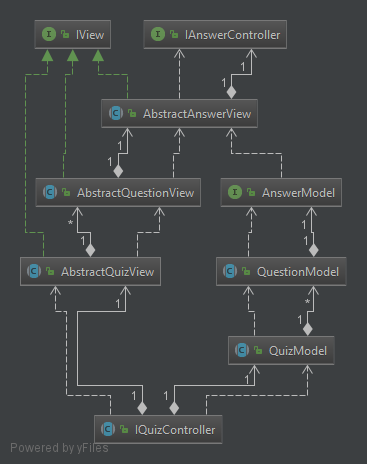
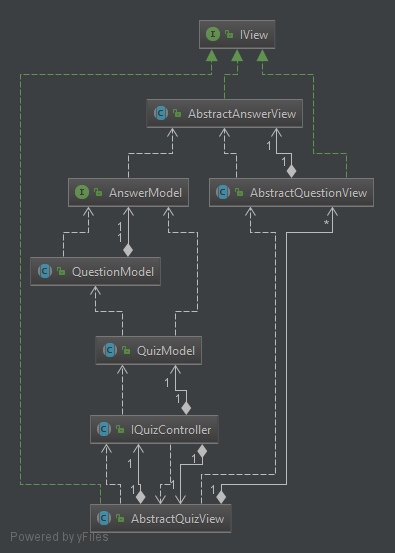
remove SimpleQuestion

Changed region(s): [[0.03, 0.0302, 0.9591, 0.9957], [0.0899, 0.0302, 0.2997, 0.1509], [0.2098, 0.6638, 0.2398, 0.694]]

diff --git a/src/test/java/fil/coo/model/impl/QuestionTest.java b/src/test/java/fil/coo/model/impl/QuestionTest.java
@@ -2,6 +2,7 @@ package fil.coo.model.impl;
 
 import fil.coo.QuizTest;
 import fil.coo.exception.InvalidAnswerException;
+import fil.coo.gui.Mocks;
 import fil.coo.model.impl.answers.NumericalAnswer;
 import fil.coo.model.impl.answers.TextAnswer;
 import org.apache.log4j.Logger;
@@ -20,13 +21,13 @@ public class QuestionTest extends QuizTest {
 
     private String INPUT_QUESTION_1 = "5+5= ?";
     private String INPUT_ANSWER_1 = "10";
-    private SimpleQuestion questionWithNumericalAnswer;
+    private Mocks.MockQuestion questionWithNumericalAnswer;
     private NumericalAnswer numericalAnswer;
     private int NB_POINTS_NUMERICAL_QUESTION = 2;
 
     private String INPUT_QUESTION_2 = "Quel est la capital de le France ?";
     private String INPUT_ANSWER_2 = "Paris";
-    private SimpleQuestion questionWithTextAnswer;
+    private Mocks.MockQuestion questionWithTextAnswer;
     private TextAnswer textAnswer;
     private int NB_POINTS_TEXT_QUESTION = 5;
 
@@ -34,10 +35,10 @@ public class QuestionTest extends QuizTest {
     @Before
     public void setUp() throws InvalidAnswerException {
         numericalAnswer = new NumericalAnswer(INPUT_ANSWER_1);
-        questionWithNumericalAnswer = new SimpleQuestion(INPUT_QUESTION_1, numericalAnswer, NB_POINTS_NUMERICAL_QUESTION);
+        questionWithNumericalAnswer = new Mocks.MockQuestion(INPUT_QUESTION_1, numericalAnswer, NB_POINTS_NUMERICAL_QUESTION);
 
         textAnswer = new TextAnswer(INPUT_ANSWER_2);
-        questionWithTextAnswer = new SimpleQuestion(INPUT_QUESTION_2, textAnswer, NB_POINTS_TEXT_QUESTION);
+        questionWithTextAnswer = new Mocks.MockQuestion(INPUT_QUESTION_2, textAnswer, NB_POINTS_TEXT_QUESTION);
     }
 
     @Test

diff --git a/src/main/java/fil/coo/model/factory/QuizFactory.java b/src/main/java/fil/coo/model/factory/QuizFactory.java
@@ -1,7 +1,6 @@
 package fil.coo.model.factory;
 
 import fil.coo.model.impl.CLIQuestion;
-import fil.coo.model.impl.SimpleQuestion;
 import fil.coo.model.impl.CLIQuiz;
 
 import java.io.*;
@@ -17,11 +16,11 @@ public class QuizFactory {
      * @return a Question created from the 3 parameters
      * @throws IOException if inputPointText is not a number
      */
-    public SimpleQuestion createQuestion(String rawQuestion, String rawAnswer, String rawNbPoints)
+    public CLIQuestion createQuestion(String rawQuestion, String rawAnswer, String rawNbPoints)
             throws IOException {
         try {
             int nbPoints = Integer.parseInt(rawNbPoints);
-            return new SimpleQuestion(rawQuestion, AnswerFactory.FACTORYANSWER.buildAnswer(rawAnswer), nbPoints);
+            return new CLIQuestion(rawQuestion, AnswerFactory.FACTORYANSWER.buildAnswer(rawAnswer), nbPoints);
         } catch (NumberFormatException e) {
             throw new IOException("rawNbPoints is not a number");
         }
@@ -48,8 +47,7 @@ public class QuizFactory {
                 if (rawAnswerText == null || rawNbPointsText == null) {
                     throw new IOException("Cannot find text for this question's answer or number of points");
                 }
-                SimpleQuestion question = this.createQuestion(rawQuestionText, rawAnswerText, rawNbPointsText);
-                questionnaire.addQuestion(new CLIQuestion(question));
+                questionnaire.addQuestion(this.createQuestion(rawQuestionText, rawAnswerText, rawNbPointsText));
             }
 
         } catch (FileNotFoundException e) {

diff --git a/src/test/java/fil/coo/model/QuizModelTest.java b/src/test/java/fil/coo/model/QuizModelTest.java
@@ -5,7 +5,6 @@ import fil.coo.gui.Mocks;
 import fil.coo.gui.factory.AnswerPanelFactory;
 import fil.coo.model.impl.CLIQuestion;
 import fil.coo.model.impl.CLIQuiz;
-import fil.coo.model.impl.SimpleQuestion;
 import org.junit.Assert;
 import org.junit.Before;
 import org.junit.Test;
@@ -124,7 +123,7 @@ public abstract class QuizModelTest {
     @Test
     public void testVerifyCorrectAnswerWhenOK() {
         Mocks.MockAnswer mockAnswer = new Mocks.MockAnswer(true);
-        SimpleQuestion question = new SimpleQuestion("", mockAnswer, 0);
+        Mocks.MockQuestion question = new Mocks.MockQuestion("", mockAnswer, 0);
         boolean result = question.verifyCorrectAnswer("dummy_input");
         assertThat(result, is(true));
     }
@@ -132,7 +131,7 @@ public abstract class QuizModelTest {
     @Test
     public void testVerifyCorrectAnswerWhenNotOK() {
         Mocks.MockAnswer mockAnswer = new Mocks.MockAnswer(false);
-        SimpleQuestion question = new SimpleQuestion("", mockAnswer, 0);
+        Mocks.MockQuestion question = new Mocks.MockQuestion("", mockAnswer, 0);
         boolean result = question.verifyCorrectAnswer("dummy_input");
         assertThat(result, is(false));
     }

diff --git a/src/test/java/fil/coo/gui/Mocks.java b/src/test/java/fil/coo/gui/Mocks.java
@@ -2,6 +2,7 @@ package fil.coo.gui;
 
 import fil.coo.gui.factory.AnswerPanelFactory;
 import fil.coo.model.AnswerModel;
+import fil.coo.model.QuestionModel;
 import fil.coo.model.QuizModel;
 
 import javax.swing.*;
@@ -84,6 +85,18 @@ public class Mocks {
         @Override
         protected AnswerModel getAnswer(int questionIndex) {
             return new MockAnswer(correctOrValid);
+        }
+    }
+
+    public static class MockQuestion extends QuestionModel {
+
+        /**
+         * @param text     the question text
+         * @param answer   the answer
+         * @param nbPoints the number of points
+         */
+        public MockQuestion(String text, AnswerModel answer, int nbPoints) {
+            super(text, answer, nbPoints);
         }
     }
 

diff --git a/src/main/java/fil/coo/model/impl/CLIQuestion.java b/src/main/java/fil/coo/model/impl/CLIQuestion.java
@@ -21,10 +21,6 @@ public class CLIQuestion extends QuestionModel {
         super(text, answer, nbPoints);
     }
 
-    public CLIQuestion(SimpleQuestion question) {
-        super(question.getQuestionText(), question.getAnswer(), question.getNbPts());
-    }
-
     /**
      * Displays the question prompt and gets the user's answer.
      * Will loop on this question while the user input is not a valid type of answer
